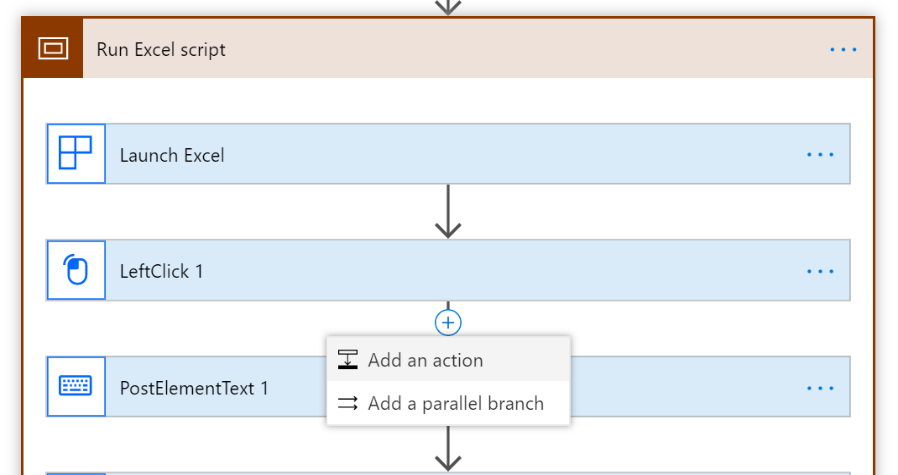
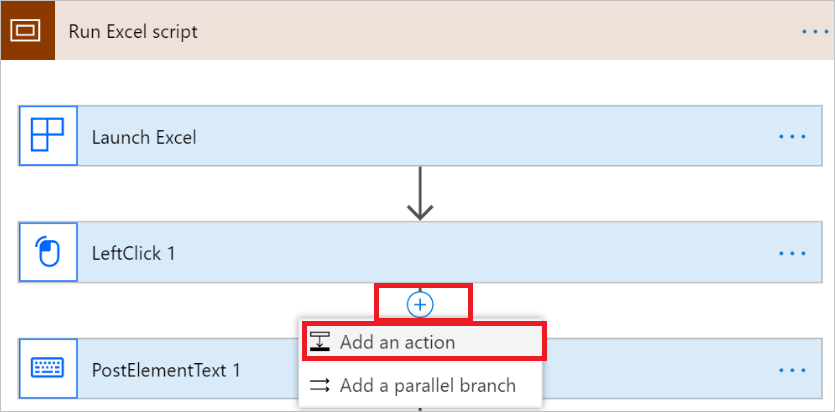
Update images and text tweaks

diff --git a/articles/ui-flows/edit-desktop.md b/articles/ui-flows/edit-desktop.md
@@ -162,23 +162,23 @@ Remove the first element (everything before /Window) before using the result in 
 
 Test your UI flow to confirm that your selector works correctly.
 
-## Advanced editor for UI flows
+## Use advanced controls
 
-You can incorporate advanced controls within your UI flows. We support **conditions**, **switch cases**, and **terminate** actions within UI flows.
+You can incorporate advanced controls such as **conditions**, **switch cases**, and **terminate** actions within your UI flows.
 
 You can perform these advanced operations by performing the following steps on an existing UI flow.
 
-1. Select the UI flow you have created > **More commands** (...) > **Edit**
+1. Select the UI flow you have created > **More commands** (...) > **Edit**.
 
-1. Click on **Add an action** on the UI flow step you want to add logic to
+1. Select **+** > **Add an action** on the down arrow of UI flow step to which you want to add logic.
 
    ![Add an action](../media/edit-desktop/add-action.png)
 
-1. Select from one of the different control actions available under **Built-in**
+1. Select **Built-in**, and then select one of the control actions available.
 
    ![Built-in](../media/edit-desktop/select-built-in.png)
 
-1. Complete the expression that needs to be evaluated. You may use dynamic content and expressions to evaluate your condition and switch controls. Additionally, outputs generated from your previous UI flow steps will also be available as content to be evaluated
+1. Complete the expression that needs to be evaluated. You may use dynamic content and expressions to evaluate your condition and switch controls. Additionally, you can use any output that's generated from the previous UI flow steps.
 
    ![Condition card](../media/edit-desktop/condition-card.png)
 
